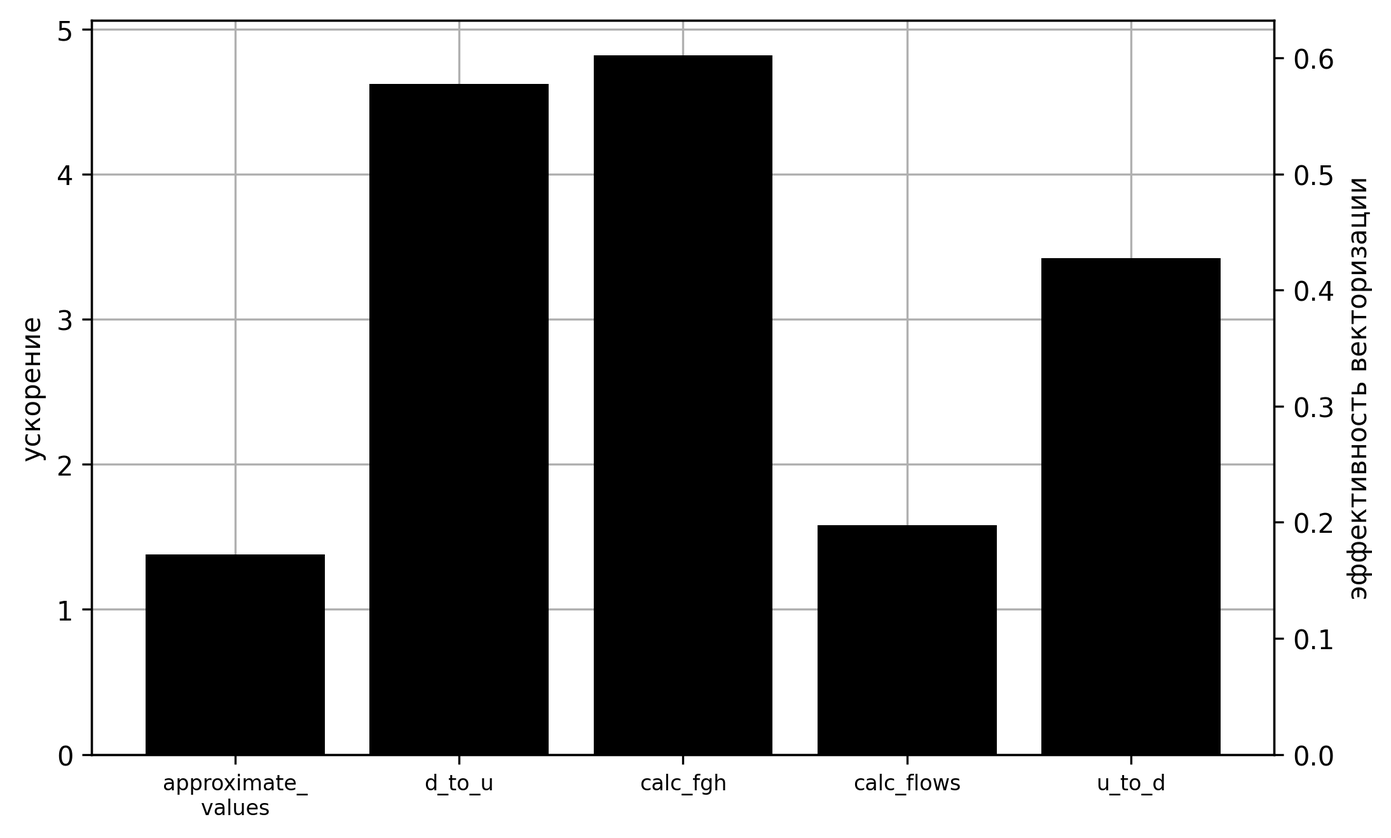
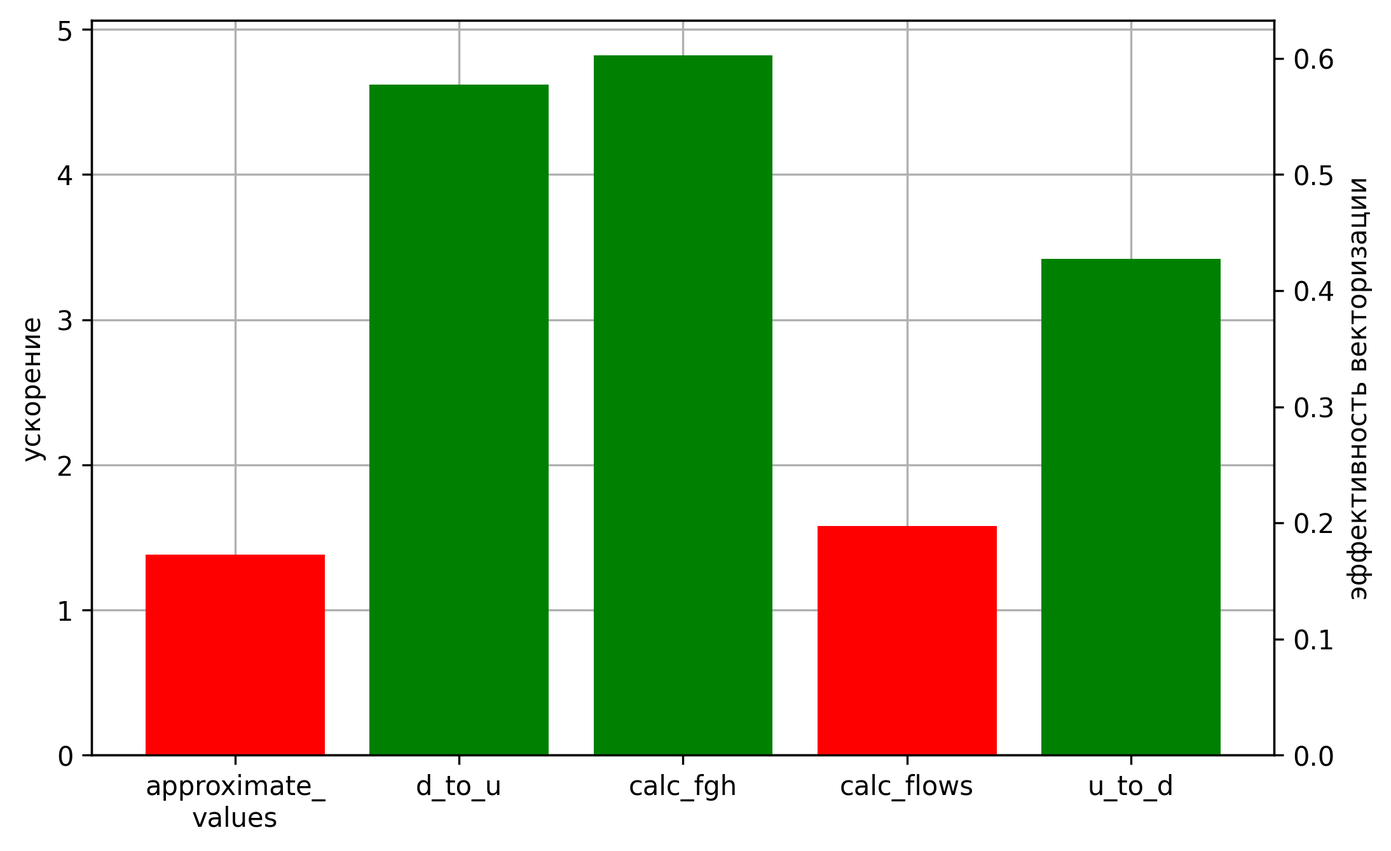
autoreferat correction

diff --git a/text/text_autoreferat.tex b/text/text_autoreferat.tex
@@ -732,7 +732,177 @@ escapeinside={\%*}{*)}
 
 %---------------------------------------------------------------------------------------------------
 
+\textbf{Четвертая глава} посвящена проблемам векторизации программного кода.
+Отмечается, что векторизация является низкоуровневой оптимизацией распараллеливания вычислений на уровне отдельных инструкций, векторные инструкции поддержаны во всех современных микропроцессорных архитектурах (x86, ARM, Power, <<Эльбрус>>, LoongArch, Sunway и других), и правильное применение векторизации способно кратно увеличить производительность приложений.
+Выделяется набор инструкций AVX-512, как поддерживающий возможность выборочной обработки элементов векторов, что делает возможным векторизацию сложного программного контекста с обилием операций передачи управления, гнездами циклов и вызовами функций.
+Отмечается проблема недостаточно эффективного применения векторизации оптимизирующим компилятором для сложного программного контекста.
+
 %----------------------------------
+
+В п.~4.1 приведено описание набора векторных инструкций AVX-512, перечислены основные подмножества операций и рассмотрены особенности этого набора.
+В качестве основной отличительной черты набора инструкций AVX-512, позволяющей векторизовать программный контекст со сложным управлением, названа возможность выполнения векторных инструкций с использованием векторных масок-предикатов, определяющих индексы элементов, для которых записывается результат операции.
+
+%----------------------------------
+
+В п.~4.2 и п.~4.3 рассматривается векторизация программного кода путем выделения однотипных операций и объединения их в векторные аналоги на примере операций с матрицами малой размерности.
+На примере матричных операций показано, что от способа выделения однотипных операций для объединения в векторные аналоги существенным образом зависит производительность результирующего кода.
+Также продемонстрировано, что низкая плотность векторных масок в результирующем коде негативно сказывается на производительность.
+
+%----------------------------------
+
+В п.~4.4 вводится понятие плоского цикла как удобного контекста для векторизации вычислений, что делает его предпочтительной формой компоновки программного кода для успешного автоматического применения векторизации оптимизирующим компилятором.
+
+\begin{figure}[ht]
+\centering
+\includegraphics[width=0.4\textwidth]{./pics/text_4_flat/fun.pdf}
+\singlespacing
+\captionstyle{center}\caption{Схема выполнения скалярной функции fun и аналогичной векторной функции FUN.}
+\label{fig:text_4_vec_flat_fun_FUN}
+\end{figure}
+
+Основная идея плоского цикла состоит в объединении нескольких вызовов (в количестве, равном ширине векторизации $w$) скалярной функции в единую векторную реализацию, как это показано на рисунке~\ref{fig:text_4_vec_flat_fun_FUN}.
+Здесь $w$ экземпляров функции $fun(x, y) \rightarrow r$ со скалярными параметрами $x$, $y$ и скалярным результатом $r$ объединены в функцию $FUN(X, Y) \rightarrow R$ с векторными параметрами $X$, $Y$ и векторным результатом $R$.
+
+\begin{table}[!ht]
+\centering
+\singlespacing
+\captionstyle{center}\caption{Инструкции AVX-512 для работы с вещественными числами \\ и их семантика.}
+\bigskip
+\label{tbl:text_4_flat_avx512semantic}
+\begin{tabular}{ | c | c | }
+  \hline
+  Имя инструкции & Семантика инструкции \\ \hline\hline
+  \makecell{VMOVAPS, VMOVUPS, VSQRTPS, \\ VGETEXPPS, VGETMANTPS, \\ VRCP14PS, VREDUCEPS, VRNDSCALEPS, \\ VRSQRT14PS, VSCALEFPS} & $\begin{matrix} R = op \ A \\ R = \check{P} \ ? \ (op \ A) : R \\ R = \check{P} \ ? \ (op \ A) : 0 \end{matrix}$ \\ \hline
+  \makecell{VADDPS, VANDPS, VANDNPS, VDIVPS, \\ VMAXPS, VMINPS, VMULPS, VORPS, \\ VSUBPS, VRANGEPS} & $\begin{matrix} R = op \ A, B \\ R = \check{P} \ ? \ (op \ A, B) : R \\ R = \check{P} \ ? \ (op \ A, B) : 0 \end{matrix}$ \\ \hline
+  \makecell{VFMADD*PS, VFMSUB*PS, \\ VFNMADD*PS, VFNMSUB*PS} & $\begin{matrix} R = op \ R, A, B \\ R = \check{P} \ ? \ (op \ R, A, B) : R \\ R = \check{P} \ ? \ (op \ R, A, B) : 0 \end{matrix}$ \\ \hline
+  \makecell{VCMPPS} & $\begin{matrix} \check{P} = op \ A, B \\ \check{P} = \check{Q} \ ? \ (op \ A, B) : 0 \end{matrix}$ \\ \hline
+  \makecell{VBLENDPS} & $\begin{matrix} R = \check{P} \ ? \ A : B \end{matrix}$ \\ \hline
+\end{tabular}
+\end{table}
+
+В качестве плоского цикла рассматривается цикл \texttt{for}, в котором индуктивная переменная $i$ последовательно принимает значения от $0$ до $w - 1$ (\texttt{for (int i = 0; i < w; ++i)}).
+К плоскому циклу предъявляются следующие требования.
+На $i$-ой итерации все обращения к данным на запись имеют вид \texttt{a[i]}, а обращения к данным на чтение либо имеют вид \texttt{a[i]}, либо являются чтением скаляров.
+Все массивы данных, обращение к которым на $i$-ой итерации цикла имеет вид \texttt{a[i]}, выровнены в памяти на размер вектора.
+В цикле отсутствуют межитерационные зависимости.
+
+Программный контекст, удовлетворяющий требованиям, предъявляемым к плоским циклам, является удобным для векторизации, а логика работы многих векторных инструкций может быть представлены в виде плоского цикла и записана в предикатной форме, как это показано в таблице~\ref{tbl:text_4_flat_avx512semantic}.
+
+%----------------------------------
+
+В п.~4.5 обсуждается применение автоматической векторизации к программному коду, представленному в виде композиции плоских циклов, а также демонстрируется негативное влияние, оказываемое отклонением от требований плоского цикла на производительность результирующего кода.
+В качестве программного контекста рассматривается реализация газодинамического решателя с использованием метода погруженной границы для аппроксимации граничных условий.
+
+Для приведения программного кода к виду плоских циклов применяется организация данных в виде набора массивов, а также расщепление циклов по константному условию для сокращения количества операций передачи управления внутри цикла.
+
+\begin{figure}[ht]
+\centering
+\includegraphics[width=0.6\textwidth]{./pics/text_4_ibm/diagr2.png}
+\singlespacing
+\captionstyle{center}\caption{Ускорение кода и эффективность векторизации отдельных функций газодинамического решателя.}
+\label{fig:text_4_ibm_diagr2}
+\end{figure}
+
+Векторизованные версии функций, удовлетворяющие требованиям плоских циклов, продемонстрировали более высокую эффективности векторизации (зеленые столбцы на рисунке~\ref{fig:text_4_ibm_diagr2}).
+
+%----------------------------------
+
+В п.~4.6 рассматривается оптимизация выноса маловероятного региона из плоского цикла.
+Оптимизация заключается в сохранении условий входа в маловероятный регион во временный массив и удаления его из основного цикла.
+Таким образом, основной цикл, свободный от маловероятных вычислений, может быть успешно векторизован, а маловероятные вычисления обработаны в отдельном цикле согласно сохраненным условиях входа в маловероятный регион.
+
+%----------------------------------
+
+В п.~4.7 и п.~4.8 рассматривается процедура слияния путей исполнения внутри плоского цикла по условию с помощью постановки операций из параллельных линейных участков под сооответствующие предикаты.
+
+Приводятся теоретические оценки эффективности векторизации плоского цикла с одним условием и двумя линейными участками.
+При этом рассматривается два варианта векторного кода -- без проверки векторной маски линейного участка на пустоту перед его выполнением и с проверкой.
+
+\begin{figure}[ht]
+\centering
+\begin{tabular}{ll}
+	\includegraphics[width=0.45\textwidth]{./pics/text_4_vec_mrg_under_cond/cond.pdf}
+	&
+	\includegraphics[width=0.45\textwidth]{./pics/text_4_vec_check_mask/cond.pdf}
+\end{tabular}
+\singlespacing
+\captionstyle{center}\caption{Схема векторизации участка программного кода, состоящего из одного условия и двух линейных учасков без проверки векторной маски (слева) и с проверкой (справа).}
+\label{fig:text_4_vec_mrg_under_cond_cond}
+\end{figure}
+
+Приводятся теоретические оценки эффективности векторизации без проверки векторной маски и с проверкой, графики зависимостей эффективности векторизаици для разных соотношений длин линейных участков приведены на рисунке~\ref{fig:text_4_vec_under_cond_chart_e_merged}.
+
+\begin{figure}[ht]
+\centering
+\begin{tabular}{ll}
+	\includegraphics[width=0.45\textwidth]{./pics/text_4_vec_mrg_under_cond/chart_e_merged.png}
+	&
+	\includegraphics[width=0.45\textwidth]{./pics/text_4_vec_check_mask/chart_e_merged.png}
+\end{tabular}
+\singlespacing
+\captionstyle{center}\caption{Графики зависимостей эффективности векторизации от вероятности перехода $p$ при значениях $\alpha = 10,0$, $\alpha = 0,1$, $\alpha = 1,0$ для слияния путей исполнения без проверки векторной маски (слева) и с проверкой (справа).}
+\label{fig:text_4_vec_under_cond_chart_e_merged}
+\end{figure}
+
+Полученные зависимости показывают низкую эффективность векторизации при слиянии большого количества путей исполнения внутри плоского цикла.
+
+\begin{figure}[ht]
+\centering
+\begin{tabular}{ll}
+\includegraphics[width=0.45\textwidth]{./pics/text_4_vec_comb_mask/independent_p.png}
+&
+\includegraphics[width=0.45\textwidth]{./pics/text_4_vec_comb_mask/real_p.png}
+\end{tabular}
+\singlespacing
+\captionstyle{center}\caption{Гистограмма распределения плотностей маски \texttt{cond} при условии, что все условия \texttt{p <= pk} для наборов скалярных данных являются независимыми (слева) и на реальном профиле исполнения (справа).}
+\label{fig:text_4_vec_comb_mask_independent_p}
+\end{figure}
+
+%----------------------------------
+
+В п.~4.9 рассматривается подход к повышению плотности масок векторного кода с помощью объединения и комбинирования масок.
+Суть объединения векторных масок заключается в следующем.
+Если есть два соседних векторных блока \texttt{in\_data\_1} $\rightarrow$ \texttt{block} $\rightarrow$ \texttt{out\_data\_1} и \texttt{in\_data\_2} $\rightarrow$ \texttt{block} $\rightarrow$ \texttt{out\_data\_2}, которые должны выполняться под разными векторными масками\label{term:vector_mask5} \texttt{mask\_1} и \texttt{mask\_2}, и в дополнение к этому для этих масок выполнено условие \texttt{(mask\_1 \& mask\_2) == 0x0} (то есть маски не пересекаются), то вычисление этих двух соседних блоков можно объединить.
+Вместо последовательного выполнения двух векторных блоков можно объединить входные данные \texttt{in\_data\_1} и \texttt{in\_data\_2} с помощью слияния \texttt{in\_data = blend(mask\_1, in\_data\_2, in\_data\_1}), после чего выполнить тот же блок вычислений под маской \texttt{mask\_1 | mask\_2}.
+Ввиду отсутствия пересечения векторных масок в результирующих выходных данных \texttt{out\_data} будут содержаться как необходимые элементы данных \texttt{out\_data\_1}, так и необходимые элементы данных \texttt{out\_data\_2}.
+Последним действием, которое нужно выполнить является извлечение из объединенного результата \texttt{out\_data} данных \texttt{out\_data\_1} и \texttt{out\_data\_2} (рисунок~\ref{fig:text_4_vec_comb_mask_comb_masks}).
+
+\begin{figure}[ht]
+\centering
+\includegraphics[width=1.0\textwidth]{./pics/text_4_vec_comb_mask/comb_masks.pdf}
+\singlespacing
+\captionstyle{center}\caption{Схема вычислений с объединением двух векторизованных блоков \texttt{in\_data\_1} $\rightarrow$ \texttt{block} $\rightarrow$ \texttt{out\_data\_1}, \texttt{in\_data\_2} $\rightarrow$ \texttt{block} $\rightarrow$ \texttt{out\_data\_2}}
+\label{fig:text_4_vec_comb_mask_comb_masks}
+\end{figure}
+
+Комбинирование масок позволяет похожим образом объединить вычисление соседних блоков в случае пересечения векторным масок.
+Комбинирование векторных масок рассматривается только теоретически, а для объединения масок поставлен эксперимент для одной из функций точного римановского решателя.
+Результаты сравнения эффективнсти векторизации на эмуляторе и на реальной машине при простом слиянии путей исполнения по условию, а также с проверкой векторных масок и с объединением масок представлены на рисунке~\ref{fig:text_4_vec_comb_mask_res}.
+
+\begin{figure}[ht]
+\centering
+\includegraphics[width=1.0\textwidth]{./pics/text_4_vec_comb_mask/res.png}
+\singlespacing
+\captionstyle{center}\caption{Результаты сравнения эффективности векторизации при простом слиянии, с проверкой масок и с объединением масок в режимах эмуляции и на микропроцессоре Intel Xeon Phi KNL 7290.}
+\label{fig:text_4_vec_comb_mask_res}
+\end{figure}
+
+%----------------------------------
+
+В пп.~4.10~--~4.13 проводится анализ программного контекста в котором тело плоского цикла само содержит гнезда циклов.
+Рассматриваются несколько  
+
+%----------------------------------
+
+В п.~4.11
+
+%----------------------------------
+
+В п.~4.12
+
+%----------------------------------
+
+В п.~4.13
 
 %---------------------------------------------------------------------------------------------------
 
